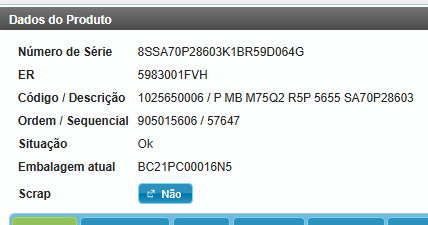
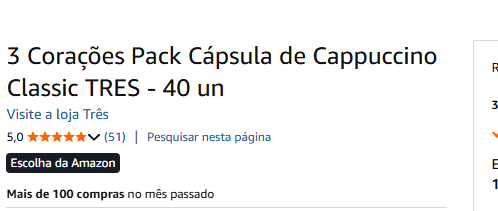
atualização

diff --git a/app.py b/app.py
@@ -226,8 +226,17 @@ class ImageToTextApp:
         self.confidence_progress.pack(side='right', padx=(5, 10))
         
         self.text_area = scrolledtext.ScrolledText(ocr_frame, wrap=tk.WORD, 
-                                                  font=('Courier New', 10),
-                                                  height=15, width=50)
+                                                  font=('Consolas', 11),
+                                                  height=15, width=50,
+                                                  bg='#f8f9fa', fg='#2c3e50',
+                                                  insertbackground='#3498db',
+                                                  selectbackground='#3498db',
+                                                  selectforeground='white',
+                                                  relief='flat',
+                                                  borderwidth=1,
+                                                  highlightthickness=1,
+                                                  highlightcolor='#3498db',
+                                                  highlightbackground='#bdc3c7')
         self.text_area.pack(fill='both', expand=True, padx=10, pady=5)
         
         # Botões para texto
@@ -907,13 +916,19 @@ class ImageToTextApp:
             self.update_image_preview()
     
     def update_image_preview(self):
-        """Atualiza o preview da imagem no canvas com zoom"""
+        """Atualiza o preview da imagem no canvas com zoom e centralização aprimorada"""
         if not hasattr(self, 'current_image') or self.current_image is None:
             return
             
-        # Redimensiona a imagem para caber no canvas mantendo proporção
-        canvas_width = 400
-        canvas_height = 300
+        # Obtém as dimensões reais do canvas
+        canvas_width = self.image_canvas.winfo_width()
+        canvas_height = self.image_canvas.winfo_height()
+        
+        # Se o canvas ainda não foi renderizado, usa dimensões padrão e reagenda
+        if canvas_width <= 1 or canvas_height <= 1:
+            canvas_width = 400
+            canvas_height = 300
+            self.root.after(50, self.update_image_preview)
         
         img_width, img_height = self.current_image.size
         base_ratio = min(canvas_width/img_width, canvas_height/img_height)
@@ -927,16 +942,20 @@ class ImageToTextApp:
         resized_image = self.current_image.resize((new_width, new_height), Image.Resampling.LANCZOS)
         self.photo = ImageTk.PhotoImage(resized_image)
         
-        # Limpa o canvas e adiciona a imagem
+        # Limpa o canvas e centraliza a imagem perfeitamente
         self.image_canvas.delete("all")
-        x = (canvas_width - new_width) // 2
-        y = (canvas_height - new_height) // 2
-        self.image_canvas.create_image(x, y, anchor='nw', image=self.photo)
         
-        # Armazena as dimensões para uso posterior
+        # Centralização perfeita usando o centro do canvas
+        center_x = canvas_width // 2
+        center_y = canvas_height // 2
+        
+        # Cria a imagem centralizada usando anchor='center'
+        self.image_canvas.create_image(center_x, center_y, anchor='center', image=self.photo)
+        
+        # Armazena as dimensões para uso posterior (ajustado para centralização)
         self.display_scale = final_ratio
-        self.display_offset_x = x
-        self.display_offset_y = y
+        self.display_offset_x = (canvas_width - new_width) // 2
+        self.display_offset_y = (canvas_height - new_height) // 2
     
     # Funcionalidade de seleção de área removida
     
@@ -957,6 +976,106 @@ class ImageToTextApp:
         
         self.update_status("Pronto")
     
+    def format_extracted_text(self, ocr_results):
+        """Formata o texto extraído de forma estruturada e organizada"""
+        if not ocr_results:
+            return "Nenhum texto encontrado na imagem."
+        
+        # Organiza os resultados por posição vertical (linha)
+        sorted_results = sorted(ocr_results, key=lambda x: x[0][0][1])  # Ordena por coordenada Y
+        
+        formatted_text = ""
+        current_line_y = None
+        line_tolerance = 20  # Tolerância para considerar textos na mesma linha
+        current_line_texts = []
+        
+        for bbox, text, confidence in sorted_results:
+            # Pega a coordenada Y do centro do texto
+            text_y = (bbox[0][1] + bbox[2][1]) / 2
+            
+            # Se é uma nova linha ou primeira iteração
+            if current_line_y is None or abs(text_y - current_line_y) > line_tolerance:
+                # Processa a linha anterior se existir
+                if current_line_texts:
+                    # Ordena textos da linha por posição X
+                    current_line_texts.sort(key=lambda x: x[1])  # Ordena por X
+                    line_text = " ".join([t[0] for t in current_line_texts])
+                    formatted_text += line_text.strip() + "\n"
+                
+                # Inicia nova linha
+                current_line_y = text_y
+                current_line_texts = [(text.strip(), bbox[0][0])]  # (texto, coordenada X)
+            else:
+                # Adiciona à linha atual
+                current_line_texts.append((text.strip(), bbox[0][0]))
+        
+        # Processa a última linha
+        if current_line_texts:
+            current_line_texts.sort(key=lambda x: x[1])
+            line_text = " ".join([t[0] for t in current_line_texts])
+            formatted_text += line_text.strip() + "\n"
+        
+        # Remove linhas vazias e espaços extras
+        lines = [line.strip() for line in formatted_text.split('\n') if line.strip()]
+        
+        # Junta linhas que parecem ser continuação (heurística simples)
+        final_lines = []
+        for i, line in enumerate(lines):
+            if i == 0:
+                final_lines.append(line)
+            else:
+                # Se a linha anterior não termina com pontuação e a atual não começa com maiúscula
+                prev_line = final_lines[-1]
+                if (not prev_line.endswith(('.', '!', '?', ':', ';')) and 
+                    line and not line[0].isupper() and 
+                    len(prev_line) > 0):
+                    # Junta com a linha anterior
+                    final_lines[-1] = prev_line + " " + line
+                else:
+                    final_lines.append(line)
+        
+        return "\n".join(final_lines) if final_lines else "Nenhum texto encontrado na imagem."
+    
+    def add_text_metadata(self, formatted_text, ocr_results, avg_confidence):
+        """Adiciona metadados úteis ao texto extraído"""
+        if not ocr_results:
+            return formatted_text
+        
+        metadata = []
+        metadata.append("=" * 50)
+        metadata.append("TEXTO EXTRAÍDO")
+        metadata.append("=" * 50)
+        metadata.append("")
+        
+        # Adiciona o texto formatado
+        text_lines = formatted_text.split('\n')
+        for line in text_lines:
+            if line.strip():
+                metadata.append(line)
+        
+        metadata.append("")
+        metadata.append("-" * 50)
+        metadata.append("INFORMAÇÕES TÉCNICAS")
+        metadata.append("-" * 50)
+        metadata.append(f"• Blocos de texto detectados: {len(ocr_results)}")
+        metadata.append(f"• Confiança média: {avg_confidence:.1%}")
+        
+        # Estatísticas de confiança
+        confidences = [conf for _, _, conf in ocr_results]
+        if confidences:
+            metadata.append(f"• Confiança mínima: {min(confidences):.1%}")
+            metadata.append(f"• Confiança máxima: {max(confidences):.1%}")
+        
+        # Contagem de caracteres e palavras
+        clean_text = formatted_text.replace('\n', ' ').strip()
+        word_count = len(clean_text.split()) if clean_text else 0
+        char_count = len(clean_text)
+        
+        metadata.append(f"• Total de palavras: {word_count}")
+        metadata.append(f"• Total de caracteres: {char_count}")
+        
+        return "\n".join(metadata)
+    
     def process_image(self):
         """Processa a imagem com YOLO e OCR"""
         if not hasattr(self, 'current_image') or not self.current_image:
@@ -975,15 +1094,18 @@ class ImageToTextApp:
                 # Converte PIL para numpy array
                 img_array = np.array(self.current_image)
                 results = self.ocr_reader.readtext(img_array)
-                # Extrai texto e calcula confiança média
-                texts = []
-                confidences = []
-                for (bbox, text, confidence) in results:
-                    texts.append(text)
-                    confidences.append(confidence)
+                # Formata o texto de forma estruturada
+                formatted_text = self.format_extracted_text(results)
                 
-                self.extracted_text = ' '.join(texts).strip()
+                # Calcula confiança média
+                confidences = [confidence for (bbox, text, confidence) in results]
                 avg_confidence = sum(confidences) / len(confidences) if confidences else 0
+                
+                # Adiciona metadados se configurado
+                if self.config.get("show_metadata", True):
+                    self.extracted_text = self.add_text_metadata(formatted_text, results, avg_confidence)
+                else:
+                    self.extracted_text = formatted_text
                 
                 # Atualiza confiança
                 self.confidence_var.set(f"{avg_confidence:.1%}")
@@ -996,7 +1118,28 @@ class ImageToTextApp:
             # Atualiza a área de texto
             self.text_area.delete(1.0, tk.END)
             if self.extracted_text:
+                # Adiciona formatação visual ao texto
                 self.text_area.insert(1.0, self.extracted_text)
+                
+                # Configura tags para diferentes tipos de texto
+                self.text_area.tag_configure("metadata", foreground="#7f8c8d", font=('Consolas', 10, 'italic'))
+                self.text_area.tag_configure("content", foreground="#2c3e50", font=('Consolas', 11))
+                self.text_area.tag_configure("separator", foreground="#95a5a6", font=('Consolas', 10))
+                
+                # Aplica formatação baseada no conteúdo
+                lines = self.extracted_text.split('\n')
+                current_line = 1
+                for line in lines:
+                    if line.startswith('=') or line.startswith('-'):
+                        # Separadores
+                        self.text_area.tag_add("separator", f"{current_line}.0", f"{current_line}.end")
+                    elif line.startswith('•') or 'Confiança' in line or 'palavras:' in line or 'caracteres:' in line:
+                        # Metadados
+                        self.text_area.tag_add("metadata", f"{current_line}.0", f"{current_line}.end")
+                    else:
+                        # Conteúdo principal
+                        self.text_area.tag_add("content", f"{current_line}.0", f"{current_line}.end")
+                    current_line += 1
             else:
                 self.text_area.insert(1.0, "Nenhum texto encontrado na imagem.")
             
